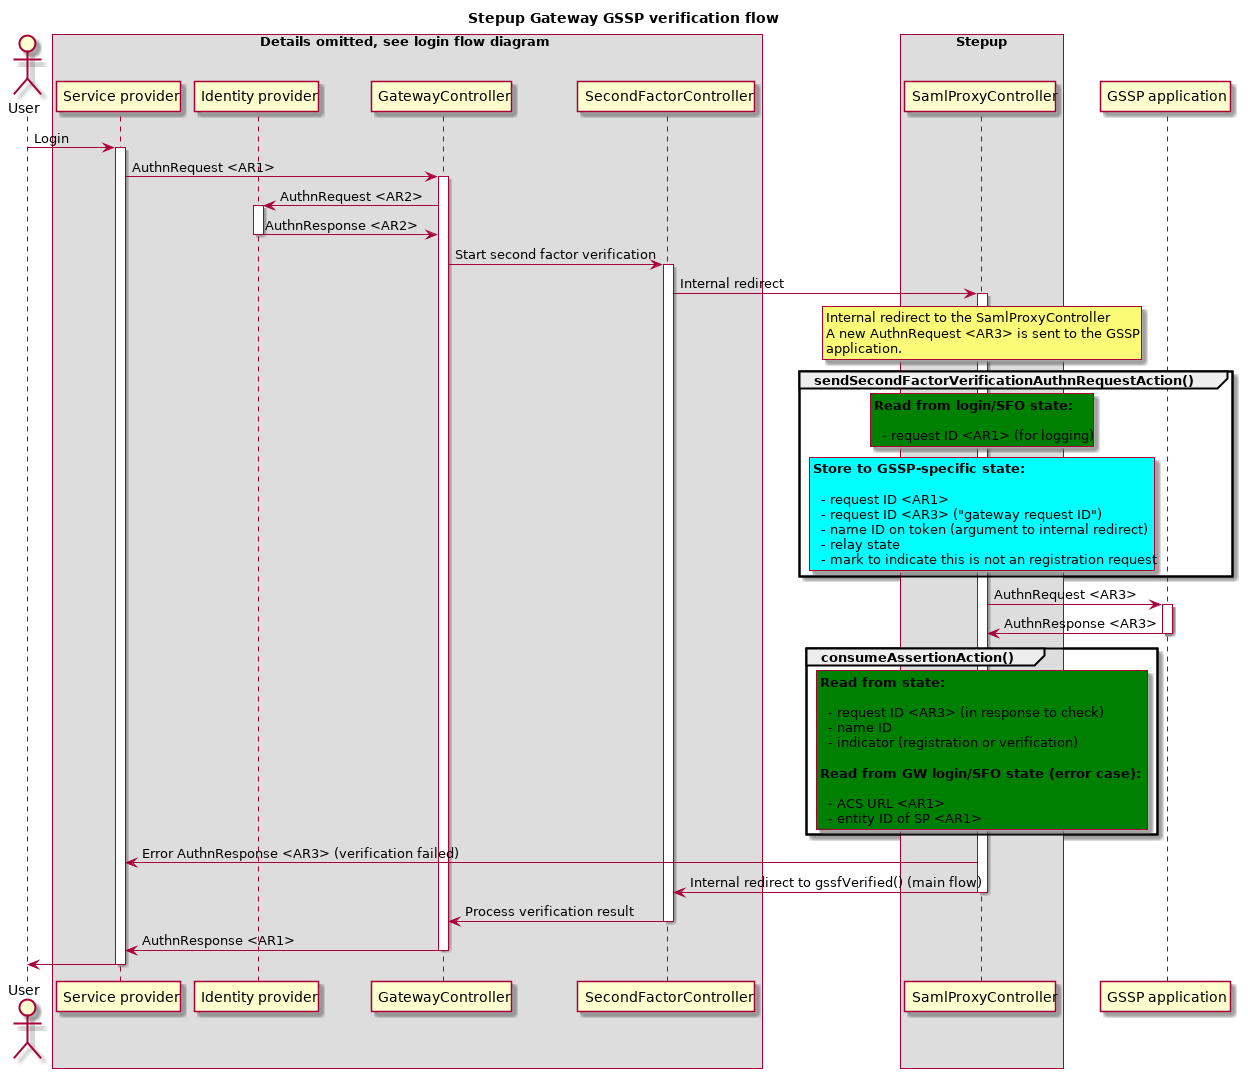
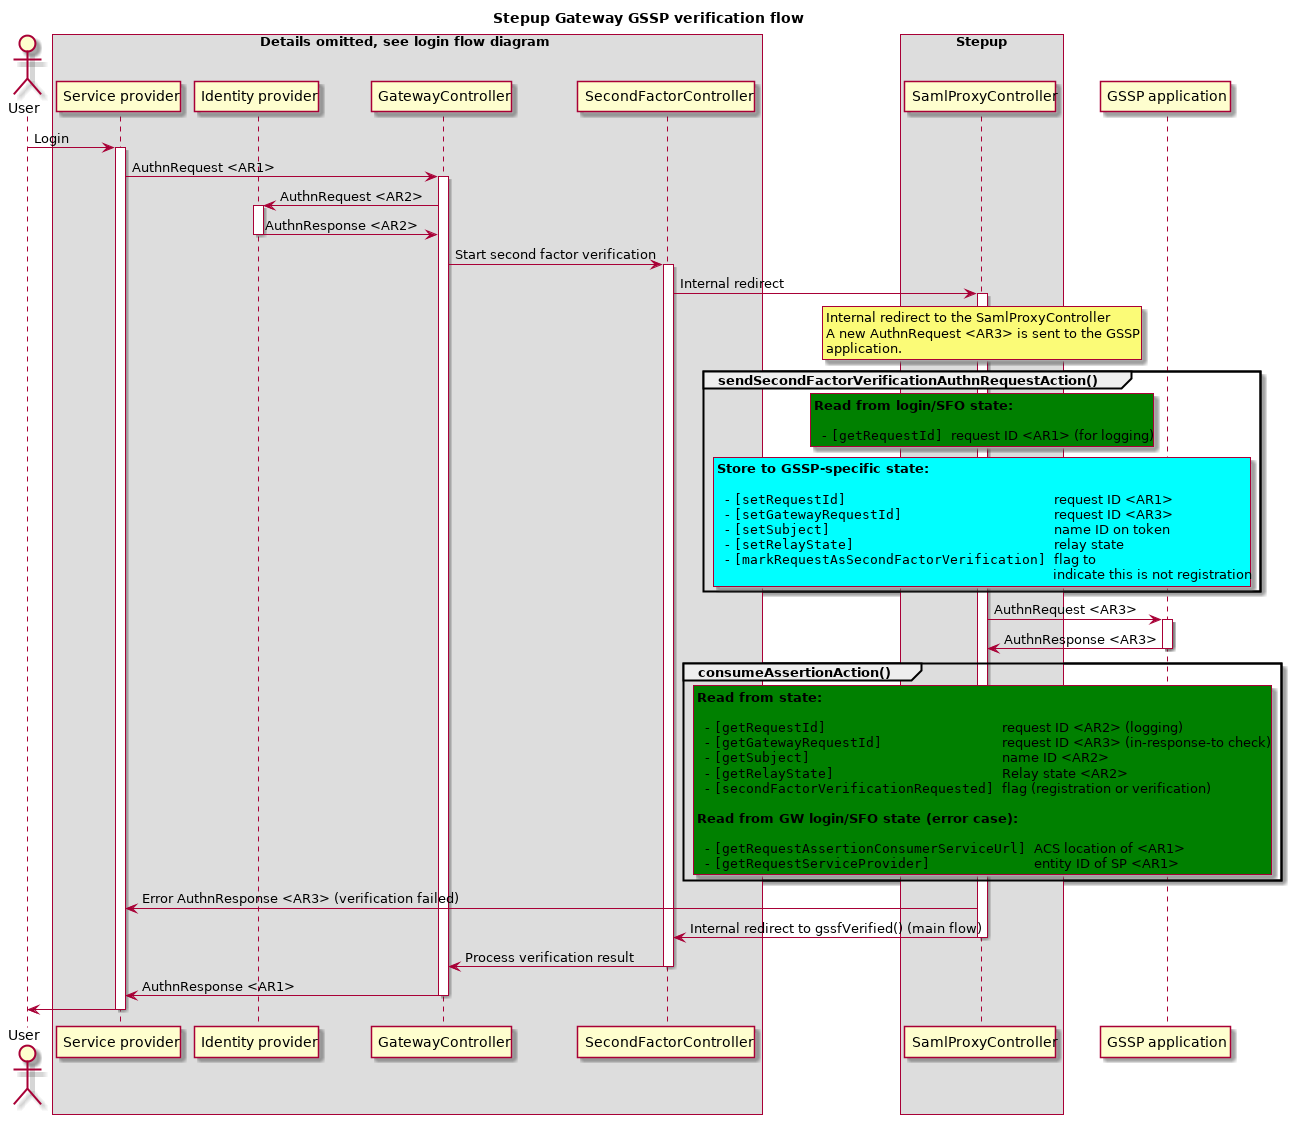
Gateway state documentation update
Processed feedback in: https://www.pivotaltracker.com/story/show/155969747/comments/188572424

Changed region(s): [[0.0, 0.0, 1.0, 1.0]]

diff --git a/docs/GatewayState.md b/docs/GatewayState.md
@@ -33,15 +33,15 @@ activate SP
             rnote over GW #aqua
             **Store to state:**
 
-              - request ID of <AR1>
-              - ACS location of <AR1>
-              - request ID of <AR2> (gateway request ID)
-              - entity ID of service provider
-              - relay state <AR1>
-              - required LoA found in <AR1>
-              - some internal configuration
-                so gateway knows the request
-                was not SFO or GSSP
+              - ""[setRequestId]                          ""request ID of <AR1>
+              - ""[setRequestServiceProvider]             ""entity ID of service provider
+              - ""[setRequestAssertionConsumerServiceUrl] ""ACS location of <AR1>
+              - ""[setRelayState]                         ""relay state <AR1>
+              - ""[setResponse*]                          ""some internal configuration
+                ""                                        ""so gateway knows the request
+                ""                                        ""was not SFO or GSSP
+              - ""[setRequiredLoaIdentifier]              ""required LoA found in <AR1>
+              - ""[setGatewayRequestId]                   ""request ID of <AR2>
             end note
         end
 
@@ -54,17 +54,21 @@ activate SP
             rnote over GW #green
             **Read from state:**
 
-              - request ID <AR1>
-              - request ID <AR2> (gateway request ID)
+              - ""[getRequestId]        ""request ID <AR1>
+              - ""[getGatewayRequestId] ""request ID <AR2>
+
+            **In case of error:**
+              - ""[getRequestAssertionConsumerServiceUrl] ""ACS location of <AR1>
+              - ""[getRequestId]                          ""request ID of <AR1>
             end note
 
             rnote over GW #aqua
             **Store to state:**
 
-              - the assertion in response to <AR2>
-              - schacHomeOrg of IDP
-              - name ID of authenticated user
-              - entity ID of the IDP
+              - ""[saveAssertion]            ""the assertion in response to <AR2>
+              - ""[setSchacHomeOrganization] ""schacHomeOrg of IDP
+              - ""[saveIdentityNameId]       ""name ID of authenticated user
+              - ""[setAuthenticatingIdp]     ""entity ID of the IDP
             end note
         end
 
@@ -80,21 +84,20 @@ activate SP
             rnote over SF #green
             **Read from state:**
 
-              - entity ID of service provider
-                to determine SP-specific
-                configuration
-              - required LoA
-              - schacHomeOrg of IDP
-              - name ID of authenticated user
-              - request ID of <AR1>
+              - ""[getRequestId]              ""request ID of <AR1>
+              - ""[getRequestServiceProvider] ""entity ID of service provider
+                ""                            ""to determine SP-specific configuration
+              - ""[getRequiredLoaIdentifier]  ""required LoA
+              - ""[getSchacHomeOrganization]  ""schacHomeOrg of IDP
+              - ""[getIdentityNameId]         ""name ID of authenticated user
             end note
 
             rnote over SF #aqua
             **Store to state:**
 
-              - unique ID of selected token
-              - preffered locale of token
-              - verification success or fail
+              - ""[setSelectedSecondFactorId] ""unique ID of selected token
+              - ""[setPreferredLocale]        ""preffered locale of token
+              - ""[setSecondFactorVerified]   ""verification success or fail
             end note
 
             SF -> GW: Process verification result
@@ -104,14 +107,22 @@ activate SP
             rnote over GW #green
             **Read from state:**
 
-              - request ID of <AR1>
-              - ACS location of <AR1>
-              - entity ID of service provider
-              - assertion in response to <AR2>
-                used to generate response to <AR1>
-              - token ID and verification result
-                to determine granted LoA
+              - ""[getRequestId]                          ""request ID of <AR1>
+              - ""[getRequestAssertionConsumerServiceUrl] ""ACS location of <AR1>
+              - ""[getRequestServiceProvider]             ""entity ID of service provider
+              - ""[getAssertion]                          ""assertion in response to <AR2>
+                ""                                        ""used to generate response to <AR1>
+              - ""[getSelectedSecondFactorId]             ""token ID
+              - ""[isSecondFactorVerified]                ""verification result
             end note
+
+            rnote over SF #aqua
+            **Store to state:**
+
+              - ""[setSelectedSecondFactorId] ""clear the tokenID
+              - ""[setSecondFactorVerified]   ""clear the verification flag
+            end note
+
         end
 
         GW -> SP: AuthnResponse <AR1>
@@ -149,20 +160,19 @@ activate SP
             rnote over SFO #aqua
             **Store to state:**
 
-              - request ID of <AR1>
-              - ACS location of <AR1>
-              - entity ID of service provider
-              - relay state <AR1>
-              - required LoA found in <AR1>
-              - some internal configuration
-                so gateway knows the request
-                was not SFO or GSSP
+              - ""[setRequestId]                          ""request ID of <AR1>
+              - ""[setRequestServiceProvider]             ""entity ID of service provider
+              - ""[setRequestAssertionConsumerServiceUrl] ""ACS location of <AR1>
+              - ""[setRelayState]                         ""relay state <AR1>
+              - ""[setResponse*]                          ""some internal configuration so 
+                ""                                        ""gateway knows the request was SFO
+              - ""[saveIdentityNameId]                    ""name ID in <AR1>
+              - ""[setRequiredLoaIdentifier]              ""required LoA found in <AR1>
 
             **Additional, in case of ADFS:**
 
-              - request ID of <AR1>
-              - Auth method
-              - context
+              - ""[Adfs::setAuthMethod] ""Auth method
+              - ""[Adfs::setContext]    ""Context
             end note
         end
 
@@ -176,24 +186,24 @@ activate SP
             is started to an external GSSP
             application (tiqr, irma, ...).
             end note
+
             rnote over SF #green
             **Read from state:**
 
-              - entity ID of service provider
-                to determine SP-specific
-                configuration
-              - required LoA
-              - schacHomeOrg of IDP
-              - name ID of authenticated user
-              - request ID of <AR1>
+              - ""[getRequestId]              ""request ID of <AR1>
+              - ""[getRequestServiceProvider] ""entity ID of service provider
+                ""                            ""to determine SP-specific configuration
+              - ""[getRequiredLoaIdentifier]  ""required LoA
+              - ""[getSchacHomeOrganization]  ""schacHomeOrg of IDP
+              - ""[getIdentityNameId]         ""name ID of authenticated user
             end note
 
             rnote over SF #aqua
             **Store to state:**
 
-              - unique ID of selected token
-              - preffered locale of token
-              - verification success or fail
+              - ""[setSelectedSecondFactorId] ""unique ID of selected token
+              - ""[setPreferredLocale]        ""preffered locale of token
+              - ""[setSecondFactorVerified]   ""verification success or fail
             end note
 
             SF -> SFO: Process verification result
@@ -203,18 +213,24 @@ activate SP
             rnote over SFO #green
             **Read from state:**
 
-              - request ID of <AR1>
-              - ACS location of <AR1>
-              - entity ID of service provider
-              - name ID found in <AR1>
-              - token ID and verification result
-                to determine granted LoA
+              - ""[getRequestId]                          ""request ID of <AR1>
+              - ""[getRequestAssertionConsumerServiceUrl] ""ACS location of <AR1>
+              - ""[getRequestServiceProvider]             ""entity ID of service provider
+              - ""[getIdentityNameId]                     ""name ID of authenticated user
+              - ""[getSelectedSecondFactorId]             ""token ID
+              - ""[isSecondFactorVerified]                ""verification result
 
             **Additional, in case of ADFS:**
 
-              - request ID of <AR1>
-              - Auth method
-              - context
+              - ""[Adfs::getAuthMethod] ""Auth method
+              - ""[Adfs::getContext]    ""context
+            end note
+
+            rnote over SF #aqua
+            **Store to state:**
+
+              - ""[setSelectedSecondFactorId] ""clear the tokenID
+              - ""[setSecondFactorVerified]   ""clear the verification flag
             end note
         end
 
@@ -273,17 +289,18 @@ activate SP
                     rnote over PROXY #green
                     **Read from login/SFO state:**
 
-                      - request ID <AR1> (for logging)
+                      - ""[getRequestId] ""request ID <AR1> (for logging)
                     end note
 
                     rnote over PROXY #aqua
                     **Store to GSSP-specific state:**
 
-                      - request ID <AR1>
-                      - request ID <AR3> ("gateway request ID")
-                      - name ID on token (argument to internal redirect)
-                      - relay state
-                      - mark to indicate this is not an registration request
+                      - ""[setRequestId]                          ""request ID <AR1>
+                      - ""[setGatewayRequestId]                   ""request ID <AR3>
+                      - ""[setSubject]                            ""name ID on token
+                      - ""[setRelayState]                         ""relay state
+                      - ""[markRequestAsSecondFactorVerification] ""flag to
+                        ""                                        ""indicate this is not registration
                     end note
                 end
 
@@ -297,14 +314,16 @@ activate SP
                     rnote over PROXY #green
                     **Read from state:**
 
-                      - request ID <AR3> (in response to check)
-                      - name ID
-                      - indicator (registration or verification)
+                      - ""[getRequestId]                      ""request ID <AR2> (logging)
+                      - ""[getGatewayRequestId]               ""request ID <AR3> (in-response-to check)
+                      - ""[getSubject]                        ""name ID <AR2>
+                      - ""[getRelayState]                     ""Relay state <AR2>
+                      - ""[secondFactorVerificationRequested] ""flag (registration or verification)
 
                     **Read from GW login/SFO state (error case):**
 
-                      - ACS URL <AR1>
-                      - entity ID of SP <AR1>
+                      - ""[getRequestAssertionConsumerServiceUrl] ""ACS location of <AR1>
+                      - ""[getRequestServiceProvider]             ""entity ID of SP <AR1>
                     end note
                 end
 
@@ -344,7 +363,7 @@ User -> SP: Login
 activate SP
 
     SP -> PROXY: AuthnRequest <AR1>
-    activate PROXY 
+    activate PROXY
 
         rnote over PROXY
         AuthnRequest <AR1> is received in
@@ -355,14 +374,14 @@ activate SP
 
         group singleSignOnAction()
             rnote over PROXY #aqua
-            **Store to state:**
+            **Store to GSSP-specific state:**
 
-             - request ID <AR1>
-             - ACS location of <AR1>
-             - request ID <AR2> ("gateway request ID", overwrites previous)
-             - enitity ID of service provider <AR2>
-             - relay state
-             - name ID
+             - ""[setRequestId]                          ""request ID <AR1> (in-response-to check)
+             - ""[setRequestAssertionConsumerServiceUrl] ""ACS location of <AR1>
+             - ""[setRequestServiceProvider]             ""entity ID of service provider <AR1>
+             - ""[setRelayState]                         ""relay state <AR1>
+             - ""[setSubject]                            ""name ID <AR1>
+             - ""[setGatewayRequestId]                   ""request ID <AR2>
             end note
         end
 
@@ -376,12 +395,16 @@ activate SP
             rnote over PROXY #green
             **Read from state:**
 
-             - request ID <AR1>
-             - request ID <AR2> (in response to check)
-             - ACS location of <AR1>
-             - name ID
-             - indicator (registration or verification)
-             - entity ID of service provider <AR1>
+              - ""[getRequestId]                      ""request ID <AR1> (logging)
+              - ""[getGatewayRequestId]               ""request ID <AR2> (in-response-to check)
+              - ""[getSubject]                        ""name ID <AR1>
+              - ""[getRelayState]                     ""Relay state <AR1>
+              - ""[secondFactorVerificationRequested] ""flag (registration or verification)
+
+            **In case of error**
+
+              - ""[getRequestAssertionConsumerServiceUrl] ""ACS location of <AR1>
+              - ""[getRequestServiceProvider]             ""entity ID of service provider <AR1>
             end note
         end
 
